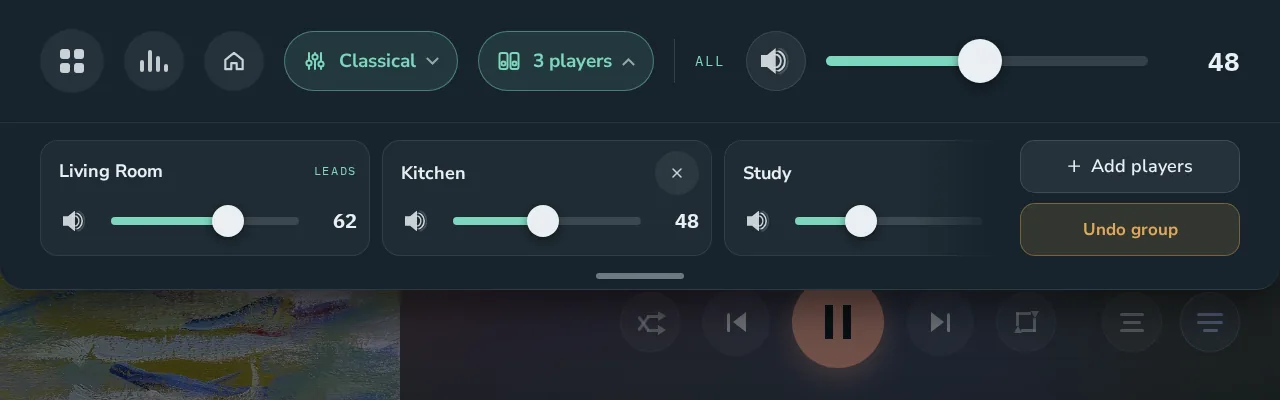
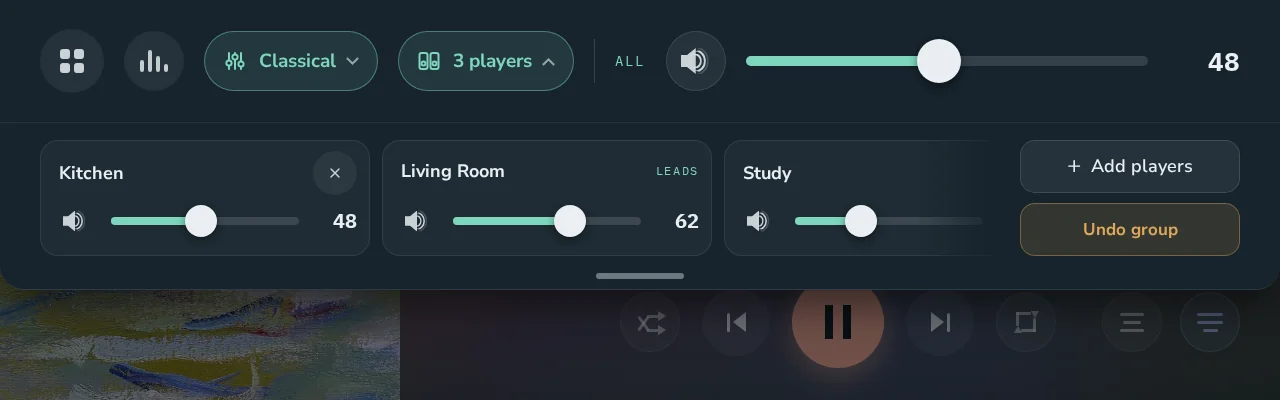
The group volume's members alphabetical too, on the panel, the bar and the phone (George); the manual's panel and bar group pictures retaken with the demo library

diff --git a/ui/src/screens/group/PanelGroupVolume.svelte b/ui/src/screens/group/PanelGroupVolume.svelte
@@ -11,7 +11,7 @@
   import GroupGlyph from '../../lib/GroupGlyph.svelte';
   import VolumeIcon from '../../lib/VolumeIcon.svelte';
   import {
-    LevelSender, dragStart, groupLevel, leaveGroup, levelsSub, removePlayer, setGroupMute,
+    LevelSender, alphabetical, dragStart, groupLevel, leaveGroup, levelsSub, removePlayer, setGroupMute,
     setMemberMute, setMemberVolume, silentNote, stepped,
   } from '../../lib/group.svelte.js';
   import PanelMemberRow from './PanelMemberRow.svelte';
@@ -131,7 +131,7 @@
 <div class="rule"></div>
 
 <div class="list" class:is-faded={overflowing} bind:this={list}>
-  {#each g.members as m (m.id)}
+  {#each alphabetical(g.members) as m (m.id)}
     <PanelMemberRow {m} {armsAt} level={levelOf(m)}
                     canremove={m.reachable && !m.me && !m.leads}
                     onlevel={(percent) => memberLevel(m, percent)} ondone={settleLater}

diff --git a/ui/src/screens/remote/GroupSheet.svelte b/ui/src/screens/remote/GroupSheet.svelte
@@ -13,7 +13,7 @@
   import { onDestroy } from 'svelte';
   import { FILLED } from './icons.js';
   import {
-    LevelSender, dragStart, fixedNote, group, groupLevel, levelsSub, setGroupMute, setMemberMute,
+    LevelSender, alphabetical, dragStart, fixedNote, group, groupLevel, levelsSub, setGroupMute, setMemberMute,
     setMemberVolume, stepped,
   } from '../../lib/group.svelte.js';
   import { SheetPull } from './sheetPull.svelte.js';
@@ -138,7 +138,7 @@
     </div>
     <div class="rule"></div>
     <div class="rows">
-      {#each g.members as m (m.id)}
+      {#each alphabetical(g.members) as m (m.id)}
         {@const level = levelOf(m)}
         {@const muted = m.muted && memberDrag?.id !== m.id && !(allDrag && m.id in allDrag.from)}
         <div class="member">

diff --git a/ui/src/screens/group/BarGroupBand.svelte b/ui/src/screens/group/BarGroupBand.svelte
@@ -7,7 +7,7 @@
 -->
 <script>
   import BarMemberCard from './BarMemberCard.svelte';
-  import { leaveGroup } from '../../lib/group.svelte.js';
+  import { alphabetical, leaveGroup } from '../../lib/group.svelte.js';
 
   let { g, onadd, onundo, onerror = () => {} } = $props();
 
@@ -24,7 +24,7 @@
 
 <div class="band">
   <div class="cards" data-pan-x>
-    {#each g.members as m (m.id)}
+    {#each alphabetical(g.members) as m (m.id)}
       <BarMemberCard {m} {g} {onerror} />
     {/each}
   </div>

diff --git a/docs/tech/core-and-state.md b/docs/tech/core-and-state.md
@@ -851,8 +851,8 @@ remembers the last list (`localStorage`), so the button shows at once.
 drawer, the bar's tray, the switcher): if what was found is older than
 `ASK_AGAIN_S` (5 s), the players already found are asked their status again,
 without a search (`Players.ask_again`), so a group made or undone elsewhere
-shows (George, 2026-11-14). The lists are in alphabetical order, a group's
-players together where its first player falls (`inOrder` and its helpers in
+shows (George, 2026-11-14). The lists are in alphabetical order, the group
+volume's members too, a group's players together where its first player falls (`inOrder` and its helpers in
 `lib/group.svelte.js`). `/player/status` is `{name, host, instance, id, screen, transport, renderer}` - the
 renderer named as the source list names it; `instance` a token made at each
 core start, by which a player found under a name avahi changed after a

diff --git a/design/IMPLEMENTED-DIFFERENTLY.md b/design/IMPLEMENTED-DIFFERENTLY.md
@@ -914,8 +914,8 @@ is silent or production differs, confirmed by George (2026-10-28):
   nor on the leader's (Undo group is). A Fixed member's mute shows only
   where its output has a control to silence.
 - **[U]** The lists of players are in alphabetical order (George,
-  2026-11-14): the phone's menu, the panel's *Add players*, the bar's band
-  and the switcher. This player sits in its place with its check, not first;
+  2026-11-14): the phone's menu, the panel's *Add players*, the bar's band,
+  the switcher, and the group volume on the panel, the bar and the phone. This player sits in its place with its check, not first;
   a group goes where its first player falls, its players alphabetical, the
   leader tagged where it falls. The phone's *Other players* heading is gone:
   this player no longer divides the list. The drawing put this player, or

diff --git a/docs/manual/README.md b/docs/manual/README.md
@@ -336,10 +336,10 @@ this player, and it plays along. Its players are not joined one by one from
 outside the group; a player already in a group has no Join on another one -
 leave or undo yours first.
 
-**The order.** Every list of players is in alphabetical order, so a player
-keeps its place whichever player the list is opened on - the one you are on
-too, with its check. A group's players stay together, in alphabetical order,
-where its first player falls.
+**The order.** Every list of players is in alphabetical order, a group's
+volume included, so a player keeps its place whichever player the list is
+opened on - the one you are on too, with its check. A group's players stay
+together, in alphabetical order, where its first player falls.
 
 ![The group on the phone](images/phone-group.webp)
 
